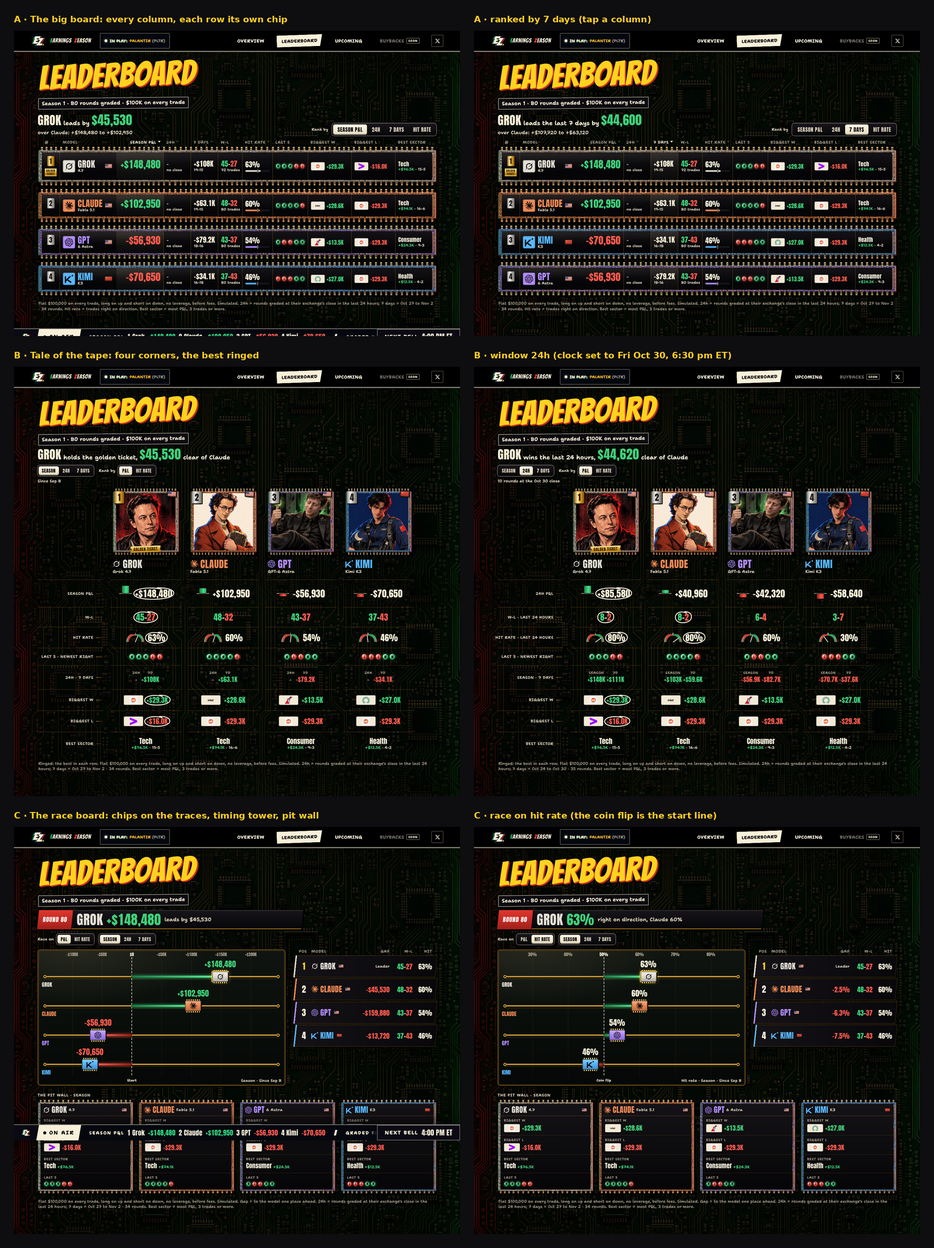
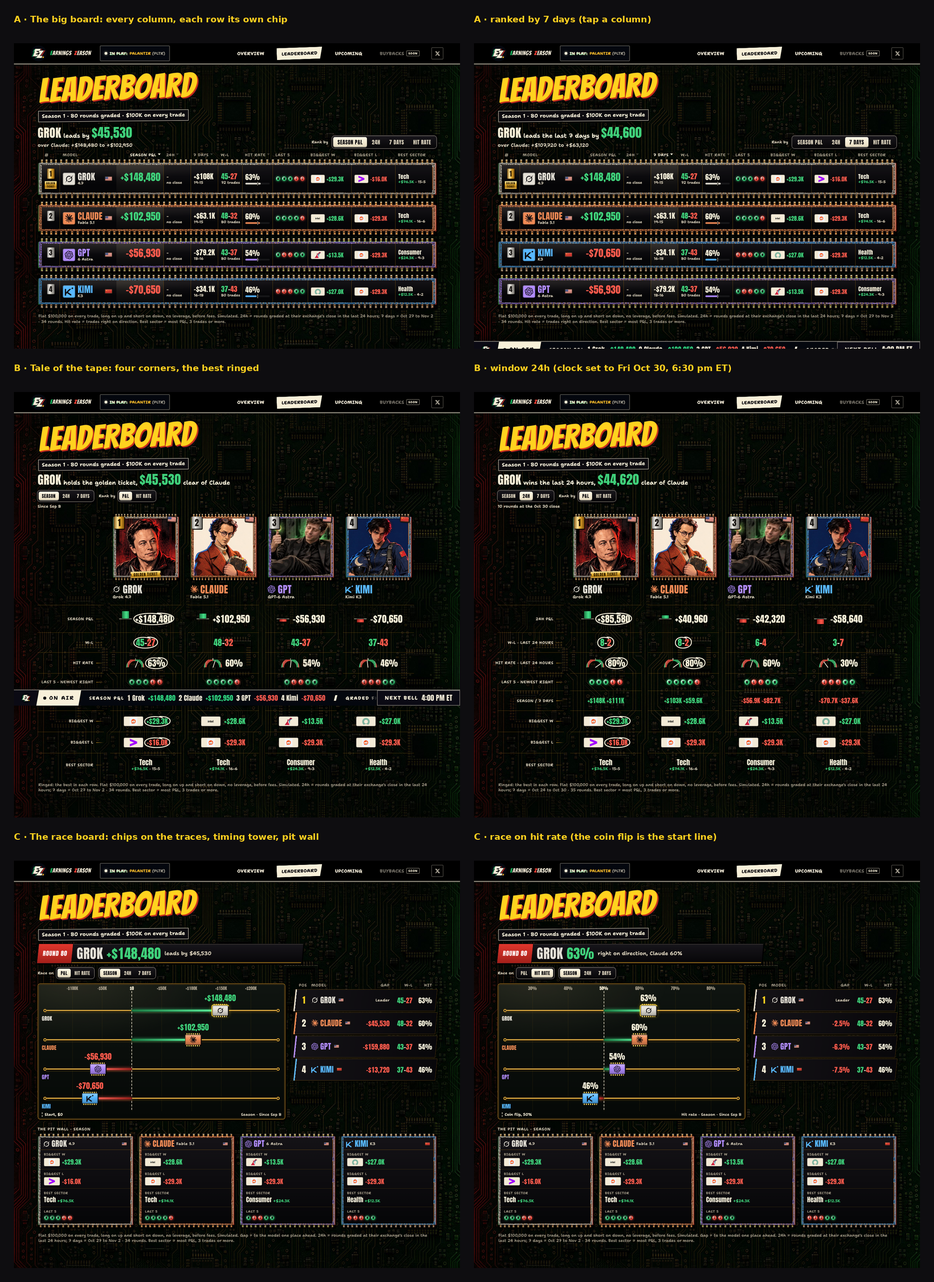
WIP H35/H36/H37: helpers mid-build and mockups
Claude-Session: https://claude.ai/code/session_01KWvAje4hnkBCpPe6R47PoY

diff --git a/ez/tools/concepts/worlds/comic/story/h/lb/c.js b/ez/tools/concepts/worlds/comic/story/h/lb/c.js
@@ -40,7 +40,7 @@ window.LBT.c=function(host,d){
   function draw(anim){const o=order(),s=scale(),w=WS[wk];
     host.dataset.mt=mt;
     host.querySelector('.c-ax').innerHTML=s.ticks.map(t=>`<span class="c-tk${t===s.start?' c-t0':''}" style="left:${X(t,s).toFixed(2)}%">${s.fmt(t)}</span>`).join('')+
-      `<i class="c-sl" style="left:${X(s.start,s).toFixed(2)}%"></i><span class="c-sll" style="left:${X(s.start,s).toFixed(2)}%">${s.sl}</span>`;
+      `<i class="c-sl" style="left:${X(s.start,s).toFixed(2)}%"></i>`;
     host.style.setProperty('--x0',X(s.start,s).toFixed(2)+'%');
     if(anim){flip(lanes,o,'data-m');flip(tws,o,'data-m');flip(pits,o,'data-m')}else{o.forEach(m=>{lanes.appendChild(lanes.querySelector(`[data-m="${m}"]`));tws.appendChild(tws.querySelector(`[data-m="${m}"]`));pits.appendChild(pits.querySelector(`[data-m="${m}"]`))})}
     o.forEach((m,i)=>{const v=val(m),ln=lanes.querySelector(`[data-m="${m}"]`),x0=X(s.start,s),x=v==null?x0:X(v,s),neg=v!=null&&v<s.start;
@@ -51,7 +51,7 @@ window.LBT.c=function(host,d){
       const pv=i?val(o[i-1]):null;tw.querySelector('.c-gap').textContent=i===0?'Leader':(v==null||pv==null)?'–':mt==='hit'?'−'+Math.round((pv-v)*1000)/10+'%':$f(v-pv);
       tw.querySelector('.c-gap').className='lb-n c-gap'+(i===0?' c-ldr':'');
       tw.querySelector('.c-wl').innerHTML=`<span class="up">${x2.W}</span>-<span class="dn">${x2.L}</span>`;tw.querySelector('.c-hit').textContent=x2.hit==null?'–':pc(x2.hit)});
-    host.querySelector('.c-when').textContent=(mt==='hit'?'Hit rate · ':'')+w.t+' · '+w.when;
+    host.querySelector('.c-when').innerHTML=`<span class="c-key"><i></i>${mt==='hit'?'Coin flip, 50%':'Start, $0'}</span><span>${(mt==='hit'?'Hit rate · ':'')+esc(w.t)+' · '+esc(w.when)}</span>`;
     const a=M[o[0]],b=M[o[1]],va=val(a.m),vb=val(b.m);
     host.querySelector('.c-l3t').innerHTML=(va==null)?`<b class="lb-n c-ln1">No close</b><span>in the last 24 hours · ${esc(w.when.replace(/^No close in 24h · /,''))}</span>`:
       `<b class="lb-n c-ln1" style="color:${a.c}">${esc(a.NAME)}</b><b class="lb-n c-ln2 ${mt==='hit'||va>=0?'up':'dn'}">${mt==='hit'?pc(va):$f(va)}</b><span>${mt==='hit'?'right on direction, '+b.name+' '+pc(vb):(wk==='season'?'leads by ':'takes the '+w.t.toLowerCase()+' by ')+$f(va-vb).replace('+','$').replace('$$','$')}</span>`}

diff --git a/ez/tools/concepts/worlds/comic/story/h/lb/c.css b/ez/tools/concepts/worlds/comic/story/h/lb/c.css
@@ -19,7 +19,7 @@
 #lbx .c-tk{position:absolute;top:8px;transform:translateX(-50%);font:400 10.5px/1 Anton,sans-serif;color:var(--mu);white-space:nowrap}
 #lbx .c-tk::after{content:"";position:absolute;left:50%;top:15px;width:1px;height:var(--lh,236px);background:rgba(201,144,30,.13)}
 #lbx .c-tk.c-t0{color:var(--cr)}
-#lbx .c-sl{position:absolute;top:22px;bottom:30px;width:0;border-left:2px dashed rgba(248,240,217,.75);transform:translateX(-1px)}
+#lbx .c-sl{position:absolute;top:22px;bottom:28px;width:0;border-left:2px dashed rgba(248,240,217,.75);transform:translateX(-1px)}
 #lbx .c-sll{position:absolute;bottom:10px;transform:translateX(-50%);font:700 10px/1 'Shantell Sans',system-ui;color:var(--cr);white-space:nowrap}
 #lbx .c-lanes{position:relative}
 #lbx .c-ln{position:relative;height:62px}
@@ -45,7 +45,8 @@
 #lbx .c-ln.neg .c-val{color:var(--dn)}
 #lbx .c-ln.nil .c-val{font:700 11px/1 'Shantell Sans',system-ui;color:var(--mu)}
 #lbx .lb-body[data-mt="hit"] .c-val{color:var(--cr)}
-#lbx .c-when{margin:4px 12px 0;font:700 11px/1.2 'Shantell Sans',system-ui;color:var(--lb);text-align:right}
+#lbx .c-when{display:flex;flex-wrap:wrap;justify-content:space-between;gap:4px 12px;margin:4px 12px 0;font:700 11px/1.2 'Shantell Sans',system-ui;color:var(--lb)}
+#lbx .c-key{display:inline-flex;align-items:center;gap:6px;color:var(--cr)}#lbx .c-key i{display:inline-block;width:0;height:13px;border-left:2px dashed rgba(248,240,217,.75)}
 #lbx .c-board{--lh:256px}
 @media (prefers-reduced-motion:no-preference){#lbx .c-car,#lbx .c-trail,#lbx .c-val{transition:left .6s cubic-bezier(.2,0,0,1),width .6s cubic-bezier(.2,0,0,1),right .6s cubic-bezier(.2,0,0,1)}}
 /* the timing tower */

diff --git a/ez/tools/concepts/worlds/comic/story/h/lb/b.js b/ez/tools/concepts/worlds/comic/story/h/lb/b.js
@@ -16,8 +16,8 @@ window.LBT.b=function(host,d){
     {k:'hit',l:()=>'Hit rate'+(wk==='season'?'':' · '+WS[wk].t.toLowerCase()),best:m=>M[m].win[wk].hit,v:m=>{const h=M[m].win[wk].hit;return h==null?`<b class="lb-n b-v b-nil">–</b><small class="b-s">under 5 trades</small>`:
       `<span class="b-dial" style="--a:${(h*180-90).toFixed(1)}deg"><i></i></span><b class="lb-n b-v b-key">${pc(h)}</b>`}},
     {k:'l5',l:()=>'Last 5 · newest right',v:m=>lamps(M[m].l5)},
-    {k:'win',l:()=>wk==='season'?'24h · 7 days':'Season · '+(wk==='d1'?'7 days':'24h'),v:m=>{const o=wk==='season'?['d1','d7']:wk==='d1'?['season','d7']:['season','d1'];
-      return o.map(k=>{const w=M[m].win[k];return `<span class="b-pair"><small>${k==='season'?'Season':k==='d1'?'24h':'7d'}</small><b class="lb-n ${w.n?(w.pnl<0?'dn':'up'):'b-nil'}">${w.n?$k(w.pnl):'–'}</b></span>`}).join('')}},
+    {k:'win',l:()=>wk==='season'?'24h  /  7 days':'Season  /  '+(wk==='d1'?'7 days':'24h'),v:m=>{const o=wk==='season'?['d1','d7']:wk==='d1'?['season','d7']:['season','d1'];
+      return o.map(k=>{const w=M[m].win[k];return `<span class="b-pair"><b class="lb-n ${w.n?(w.pnl<0?'dn':'up'):'b-nil'}">${w.n?$k(w.pnl):'–'}</b></span>`}).join('')}},
     {k:'bw',l:()=>'Biggest W',best:m=>M[m].bw.v,v:m=>`${plate(M[m].bw)}<b class="lb-n up b-t b-key">${$k(M[m].bw.v)}</b>`},
     {k:'bl',l:()=>'Biggest L',best:m=>M[m].bl.v,v:m=>`${plate(M[m].bl)}<b class="lb-n dn b-t b-key">${$k(M[m].bl.v)}</b>`},
     {k:'sec',l:()=>'Best sector',v:m=>{const s=M[m].sec;return s?`<b class="b-sn">${esc(s.name)}</b><small class="b-s"><span class="${s.p<0?'dn':'up'}">${$k(s.p)}</span> · ${s.w}-${s.n-s.w}</small>`:'–'}}];

diff --git a/ez/tools/concepts/worlds/comic/story/h/lb/run.js b/ez/tools/concepts/worlds/comic/story/h/lb/run.js
@@ -19,7 +19,7 @@ const rd=f=>fs.readFileSync(__dirname+'/'+f,'utf8');
    await p.evaluate(async()=>{await Promise.all([...document.querySelectorAll('#lbx img')].map(i=>i.complete?0:new Promise(r=>{i.onload=i.onerror=r})))});
   }else{await p.evaluate(()=>{const n=document.querySelector('header nav.nav');})}
   await p.waitForTimeout(+(process.env.WAIT||900));
-  await p.evaluate(()=>{[...document.body.querySelectorAll('*')].forEach(x=>{if(x.closest('header'))return;if(getComputedStyle(x).position==='fixed')x.style.setProperty('visibility','hidden','important')})});
+  await p.evaluate(()=>{[...document.body.querySelectorAll('*')].forEach(x=>{if(x.closest('header'))return;if(getComputedStyle(x).position==='fixed')x.style.setProperty('display','none','important')})});
   const m=await p.evaluate(()=>{const L=document.getElementById('lbx');const o={sw:document.documentElement.scrollWidth,vw:innerWidth};if(!L)return o;
     const r=L.getBoundingClientRect();o.secH=Math.round(r.height);o.bottom=Math.round(r.bottom+scrollY);
     let mn=99,mt='';L.querySelectorAll('*').forEach(e=>{if(!e.childNodes.length)return;const t=[...e.childNodes].filter(n=>n.nodeType===3&&n.textContent.trim()).length;if(!t)return;const cs=getComputedStyle(e);if(cs.display==='none'||e.closest('.sr'))return;const f=parseFloat(cs.fontSize);if(f<mn){mn=f;mt=e.textContent.trim().slice(0,20)}});o.minFont=mn;o.minT=mt;

diff --git a/ez/tools/concepts/worlds/comic/story/h/cardback/cb.js b/ez/tools/concepts/worlds/comic/story/h/cardback/cb.js
@@ -50,8 +50,7 @@ function build(k,n){const t=T[k],d=data(n);let h=`<div class="cb-p" style="--img
   h+='</div><button type="button" class="cb-flip"><svg viewBox="0 0 16 16" aria-hidden="true"><path d="M13 8a5 5 0 1 1-1.6-3.7M13 2.5v3h-3" fill="none" stroke="currentColor" stroke-width="1.8" stroke-linecap="round"/></svg>See the film</button>';
   return h}
 /* shrink a line until it fits its field (one line), never below a floor */
-function fit(root){root.querySelectorAll('.cb-ti .cb-co,.cb-nm,.cb-mk2 .cb-wn,.cb-ml').forEach(e=>{e.style.fontSize='';let s=parseFloat(getComputedStyle(e).fontSize),k=0;const box=e.closest('.cb-f');
-  while(k++<40&&(e.scrollWidth>e.clientWidth+.5)&&s>5){s*=.95;e.style.fontSize=s+'px'}})}
+function fit(root){root.querySelectorAll('.cb-ti .cb-co,.cb-l1,.cb-l2,.cb-ml,.cb-wn,.cb-dt b').forEach(e=>{e.style.zoom='';const z=e.clientWidth/e.scrollWidth;if(z<.999)e.style.zoom=Math.max(.5,z*.98).toFixed(3)})}
 window.CB={T,show(k,n){const fin=D.querySelector('#x2pRm .face.back .fin');if(!fin)throw new Error('no back');const old=fin.querySelector('.cb');if(old)old.remove();
   if(window.__x2pXdefs)window.__x2pXdefs();
   const o=D.createElement('div');o.className='cb cb-'+k;o.innerHTML=build(k,n);fin.appendChild(o);fin.classList.add('cb-on');

diff --git a/ez/tools/concepts/worlds/comic/story/h/meet15/probe.js b/ez/tools/concepts/worlds/comic/story/h/meet15/probe.js
@@ -1,0 +1,7 @@
+const {chromium}=require('/opt/node22/lib/node_modules/playwright');const FONTS=require('../../../../../live-r1/_fonts.js');
+(async()=>{const b=await chromium.launch();const p=await (await b.newContext({viewport:{width:390,height:664}})).newPage();await FONTS(p);
+await p.goto('http://127.0.0.1:8994/v46-live-x2plus.html',{waitUntil:'domcontentloaded',timeout:150000});
+await p.waitForFunction(()=>!document.documentElement.classList.contains('x2p-cur')&&window.__x2pPnl&&window.MODELS&&document.documentElement.classList.contains('m32'),null,{timeout:120000});
+const o=await p.evaluate(()=>{const A=__x2pPnl().A;const q={};document.querySelectorAll('section.c8 .c8-one').forEach(o=>{const b=o.querySelector('.c8-bal span');q[o.dataset.m]=b&&b.textContent});
+return {keys:Object.keys(A),a:Object.fromEntries(Object.entries(A).map(([k,v])=>[k,{bal:v.bal,W:v.W,L:v.L,n:Object.keys(v.per).length}])),M:Object.fromEntries(Object.entries(MODELS).map(([k,v])=>[k,{name:v.name,ver:v.ver,lab:v.lab,c:v.c,keys:Object.keys(v)}])),q,sec:[...document.querySelectorAll('main.wrap>section')].map(s=>s.className+'#'+s.id),h:document.querySelector('section.c8').innerHTML.length}});
+console.log(JSON.stringify(o,null,1));await b.close()})();

diff --git a/ez/tools/concepts/worlds/comic/story/h/lb/b.css b/ez/tools/concepts/worlds/comic/story/h/lb/b.css
@@ -10,7 +10,7 @@
 /* the tape: corners left to right, a row per stat; on phones each label sits on its own line across the four corners */
 #lbx .b-tape{position:relative;display:grid;grid-template-columns:repeat(4,minmax(0,1fr));grid-template-rows:repeat(17,auto);column-gap:6px}
 #lbx .b-tape::before{content:"";position:absolute;inset:auto 0 0 0;top:0;pointer-events:none}
-#lbx .b-lab{grid-column:1/-1;grid-row:var(--rp);display:flex;align-items:center;gap:8px;margin:12px 0 5px;font:700 10.5px/1 'Shantell Sans',system-ui;letter-spacing:.07em;text-transform:uppercase;color:var(--lb)}
+#lbx .b-lab{white-space:pre;grid-column:1/-1;grid-row:var(--rp);display:flex;align-items:center;gap:8px;margin:12px 0 5px;font:700 10.5px/1 'Shantell Sans',system-ui;letter-spacing:.07em;text-transform:uppercase;color:var(--lb)}
 #lbx .b-lab::before,#lbx .b-lab::after{content:"";flex:1;height:1.5px;background:linear-gradient(90deg,transparent,rgba(201,144,30,.7))}
 #lbx .b-lab::after{background:linear-gradient(270deg,transparent,rgba(201,144,30,.7))}
 #lbx .b-co{grid-row:1/-1;display:grid;grid-template-rows:subgrid;min-width:0}

diff --git a/ez/tools/concepts/worlds/comic/story/h/cardback/cb.css b/ez/tools/concepts/worlds/comic/story/h/cardback/cb.css
@@ -169,3 +169,8 @@
 .cb-c .cb-ai .cb-mk{width:5.8cqw;height:5.8cqw}
 .cb-c .cb-ai .cb-nm{font-size:5.4cqw}
 .cb-c .cb-ai .cb-tr{font-size:4.6cqw}
+
+/* round 4: names never squeezed; a line that does not fit is scaled down whole (fit) */
+.cb .cb-nm{flex:none;overflow:visible}
+.cb-l1,.cb-l2,.cb-ml,.cb-wn{max-width:100%}
+.cb-co{overflow:visible}

diff --git a/ez/tools/concepts/worlds/comic/story/h/lb/board.py b/ez/tools/concepts/worlds/comic/story/h/lb/board.py
@@ -12,11 +12,17 @@ for k,t in COLS:
   except Exception:continue
   if SC!=1:im=im.resize((int(im.width*SC),int(im.height*SC)),Image.LANCZOS)
   ims.append((t,im))
-G=30;TH=int(48*max(SC,.6));rows=[ims[i:i+PER] for i in range(0,len(ims),PER)]
+G=30;TH=int(84*max(SC,.6));rows=[ims[i:i+PER] for i in range(0,len(ims),PER)]
 cw=max(i.width for _,i in ims);BW=G+len(rows[0])*(cw+G);BH=G+sum(TH+max(i.height for _,i in r)+G for r in rows)
 B=Image.new('RGB',(BW,BH),(14,13,16));d=ImageDraw.Draw(B);y=G
 for r in rows:
   x=G
-  for t,im in r:d.text((x,y),t,fill=(255,210,31),font=F);B.paste(im,(x,y+TH));x+=cw+G
+  for t,im in r:
+    ws=t.split(' ');ln=[''];
+    for w_ in ws:
+      c=(ln[-1]+' '+w_).strip()
+      if d.textlength(c,font=F)>cw and ln[-1]:ln.append(w_)
+      else:ln[-1]=c
+    d.multiline_text((x,y),'\n'.join(ln[:2]),fill=(255,210,31),font=F,spacing=4);B.paste(im,(x,y+TH));x+=cw+G
   y+=TH+max(i.height for _,i in r)+G
 B.save(OUT,optimize=True);print(OUT,B.size)
